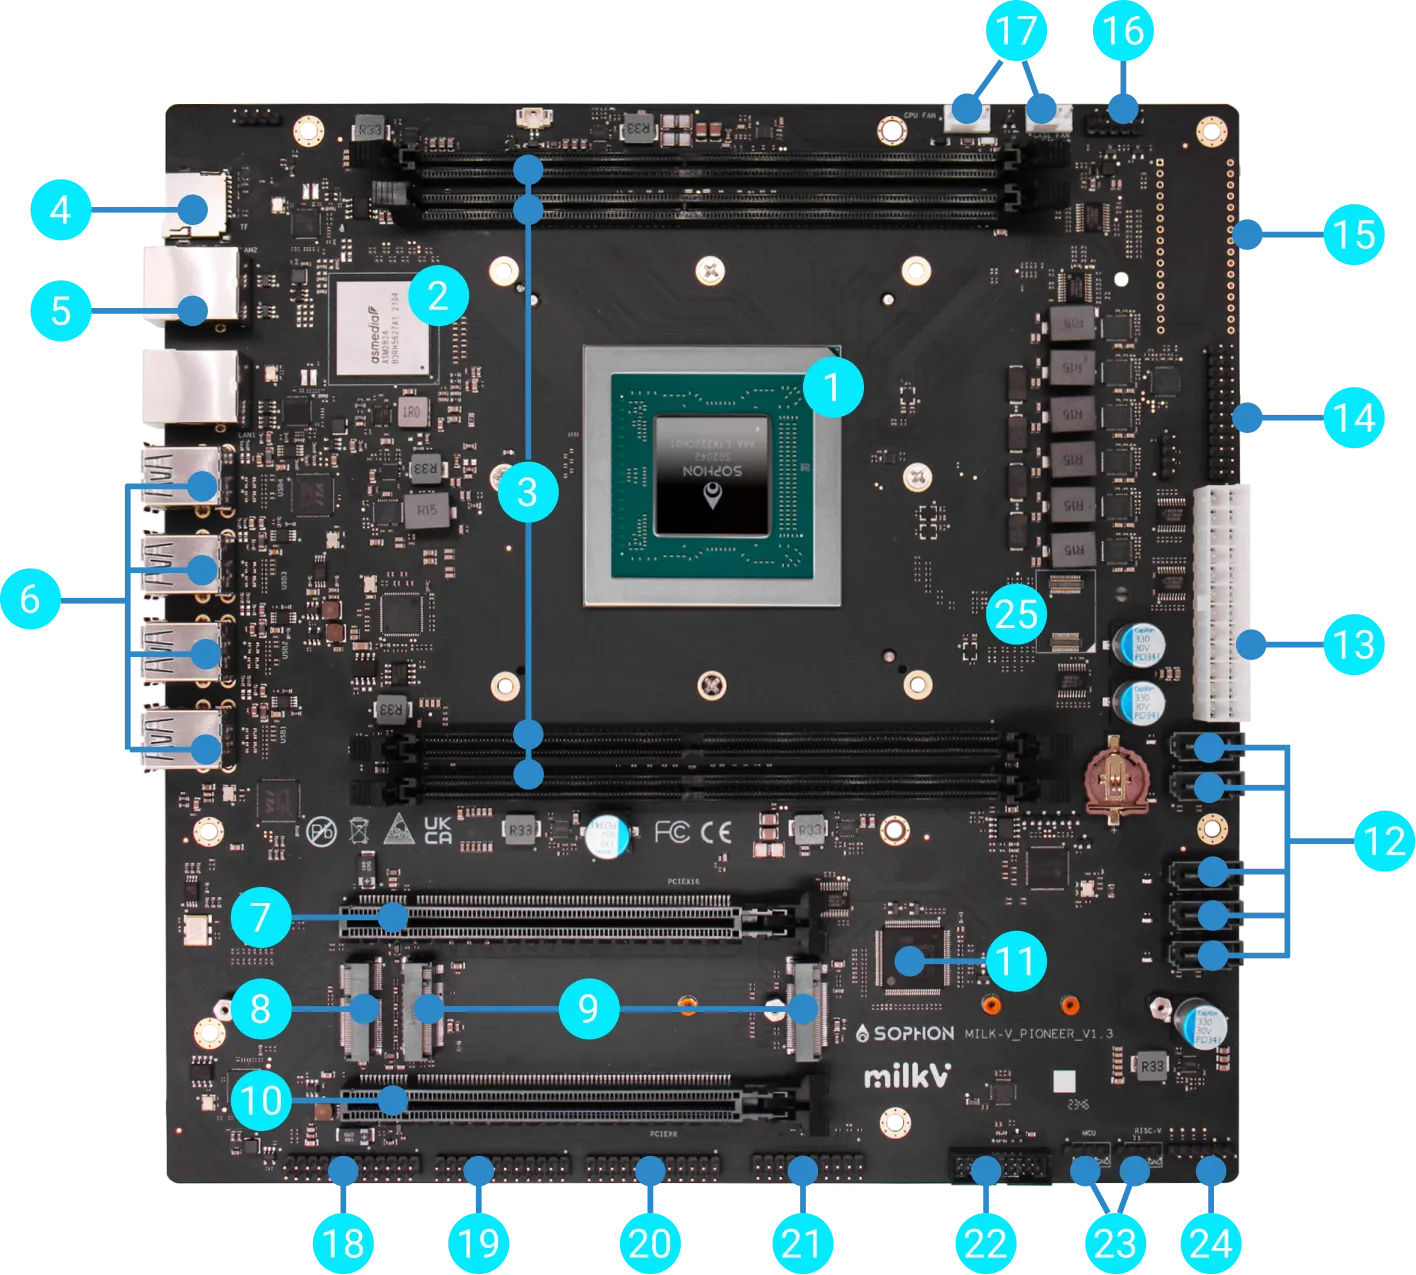
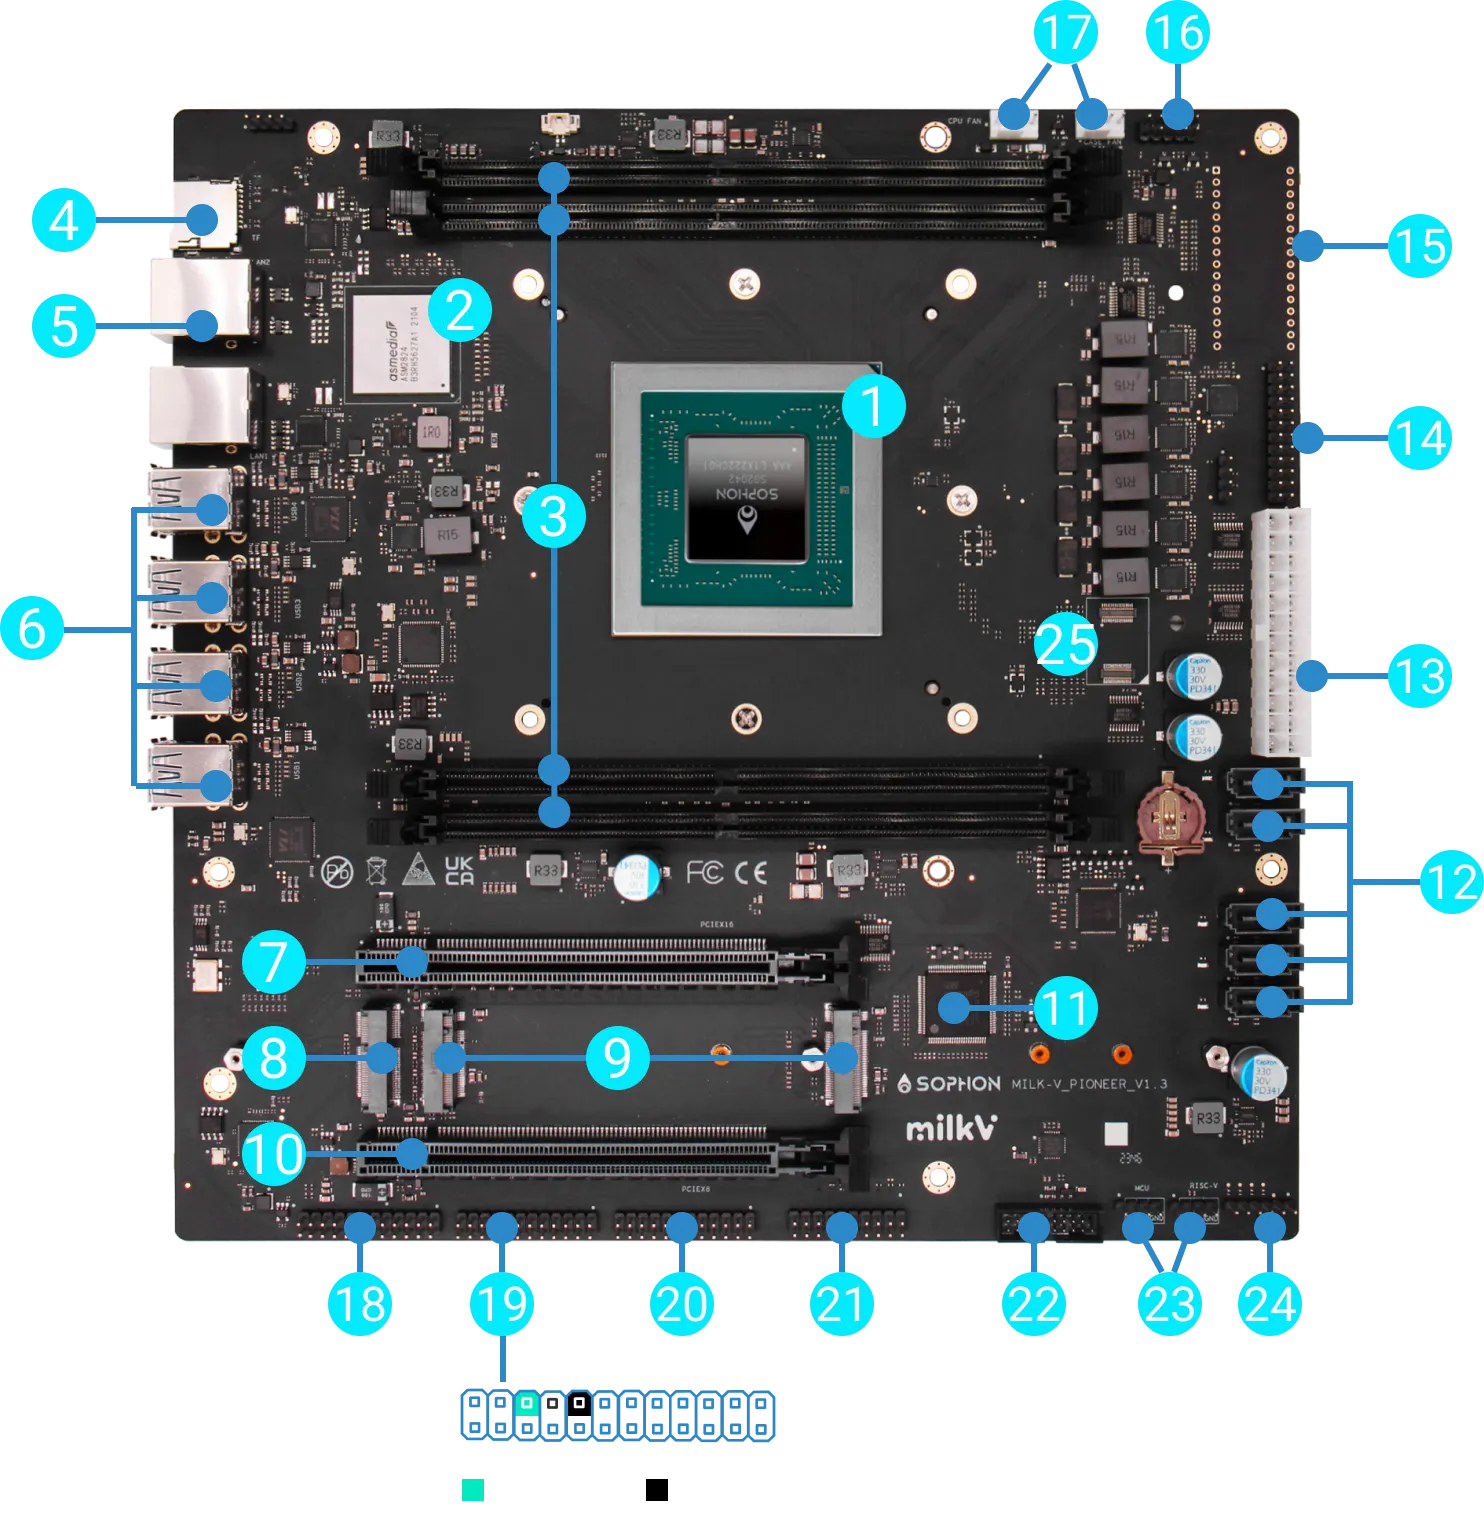
refactor: Pionner detail page replacement images

diff --git a/src/pages/pioneer/index.js b/src/pages/pioneer/index.js
@@ -134,7 +134,7 @@ function Center() {
             <li>
               <p>
                 <span>19</span>
-                <span>UART</span>
+                <span>SCP UART</span>
               </p>
               <p>
                 <span>20</span>
